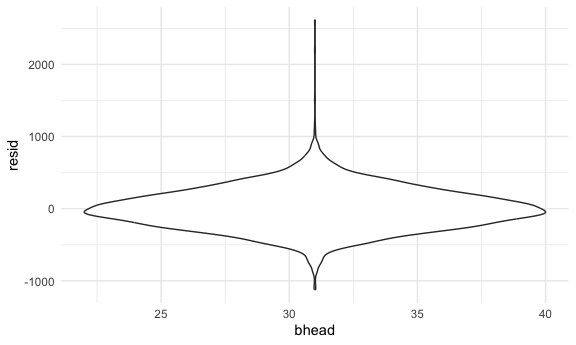
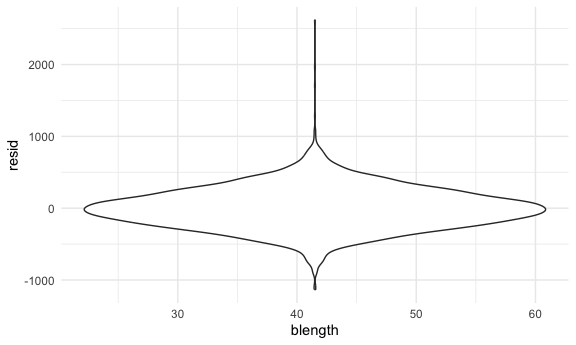
notes from office hours

diff --git a/p8105_hw6_sdc2157.md b/p8105_hw6_sdc2157.md
@@ -218,7 +218,7 @@ cp_results_tidy |>
 
 ``` r
 cp_results_tidy |> 
-  filter(!log_coefficients_mult == "NaN") |> 
+  filter(log_coefficients_mult != "NaN") |> 
   ggplot(aes(x = log_coefficients_mult)) +
   geom_density()
 ```
@@ -228,7 +228,7 @@ noted total number of NAs produced; filtered them out for the
 distribution
 
 log of product of coefficients distribution = centers around -5.5; What
-does this mean?
+does this mean? left skew
 
 Using the 5000 bootstrap estimates, identify the 2.5% and 97.5%
 quantiles to provide a 95% confidence interval for r̂ 2 and log(β̂ 0∗β̂ 1)
@@ -342,40 +342,11 @@ str(birthweight_clean)
 
 ``` r
 fit_1 = lm(bwt ~ gaweeks, data = birthweight_clean)
-fit_1 |> 
-  broom::tidy()
-```
-
-    ## # A tibble: 2 × 5
-    ##   term        estimate std.error statistic   p.value
-    ##   <chr>          <dbl>     <dbl>     <dbl>     <dbl>
-    ## 1 (Intercept)    476.      88.8       5.36 8.76e-  8
-    ## 2 gaweeks         66.9      2.25     29.8  9.69e-178
-
-``` r
-birthweight_clean |> 
-  ggplot(aes(x = gaweeks, y = bwt)) + 
-  geom_point()
-```
-
-<img src="p8105_hw6_sdc2157_files/figure-gfm/unnamed-chunk-10-1.png" width="90%" />
-
-``` r
-birthweight_clean |> 
-  modelr::add_residuals(fit_1) |> 
-  ggplot(aes(x = smoken, y = resid)) + geom_violin()
-```
-
-<img src="p8105_hw6_sdc2157_files/figure-gfm/unnamed-chunk-10-2.png" width="90%" />
-
-``` r
-fit_1 = lm(bwt ~ gaweeks, data = birthweight_clean)
 fit_2 = lm(bwt ~ gaweeks + bhead, data = birthweight_clean)
 fit_3 = lm(bwt ~ gaweeks + bhead + blength, data = birthweight_clean)
 
 fit_4 = lm(bwt ~ gaweeks + bhead + blength + babysex, data = birthweight_clean)
 fit_5 = lm(bwt ~ gaweeks + bhead + blength + malform, data = birthweight_clean)
-fit_6 = lm(bwt ~ gaweeks + bhead + blength + smoken, data = birthweight_clean)
 
 anova(fit_1, fit_2) |> 
   broom::tidy()
@@ -421,50 +392,17 @@ anova(fit_3, fit_5) |>
     ## 2 bwt ~ gaweeks + bhead + ble…        4337 3.55e8     1 21962.     0.268   0.605
 
 ``` r
-anova(fit_3, fit_6) |> 
-  broom::tidy()
-```
-
-    ## # A tibble: 2 × 7
-    ##   term                       df.residual    rss    df   sumsq statistic  p.value
-    ##   <chr>                            <dbl>  <dbl> <dbl>   <dbl>     <dbl>    <dbl>
-    ## 1 bwt ~ gaweeks + bhead + b…        4338 3.55e8    NA     NA       NA   NA      
-    ## 2 bwt ~ gaweeks + bhead + b…        4337 3.54e8     1 818743.      10.0  0.00156
-
-``` r
 birthweight_clean |> 
   modelr::add_residuals(fit_4) |> 
-  ggplot(aes(x = gaweeks, y = resid)) + geom_violin()
+  modelr::add_predictions(fit_4) |> 
+  ggplot(aes(x = pred, y = resid)) + 
+  geom_point()
 ```
 
-<img src="p8105_hw6_sdc2157_files/figure-gfm/unnamed-chunk-10-3.png" width="90%" />
+<img src="p8105_hw6_sdc2157_files/figure-gfm/unnamed-chunk-10-1.png" width="90%" />
 
 ``` r
-birthweight_clean |> 
-  modelr::add_residuals(fit_4) |> 
-  ggplot(aes(x = bhead, y = resid)) + geom_violin()
-```
-
-<img src="p8105_hw6_sdc2157_files/figure-gfm/unnamed-chunk-10-4.png" width="90%" />
-
-``` r
-birthweight_clean |> 
-  modelr::add_residuals(fit_4) |> 
-  ggplot(aes(x = blength, y = resid)) + geom_violin()
-```
-
-<img src="p8105_hw6_sdc2157_files/figure-gfm/unnamed-chunk-10-5.png" width="90%" />
-
-``` r
-birthweight_clean |> 
-  modelr::add_residuals(fit_4) |> 
-  ggplot(aes(x = babysex, y = resid)) + geom_violin()
-```
-
-<img src="p8105_hw6_sdc2157_files/figure-gfm/unnamed-chunk-10-6.png" width="90%" />
-
-``` r
-fit_4 = lm(bwt ~ gaweeks + bhead + blength + babysex, data = birthweight_clean)
+#fit_4 = lm(bwt ~ gaweeks + bhead + blength + babysex, data = birthweight_clean)
 fit_alt1 = lm(bwt ~ gaweeks + blength, data = birthweight_clean)
 fit_alt2 = lm(bwt ~ blength * bhead * babysex, data = birthweight_clean)
 
@@ -490,7 +428,7 @@ birthweight_clean |>
   ggplot(aes(x = gaweeks, y = resid)) + geom_violin()
 ```
 
-<img src="p8105_hw6_sdc2157_files/figure-gfm/unnamed-chunk-10-7.png" width="90%" />
+<img src="p8105_hw6_sdc2157_files/figure-gfm/unnamed-chunk-10-2.png" width="90%" />
 
 ``` r
 birthweight_clean |> 
@@ -498,7 +436,31 @@ birthweight_clean |>
   ggplot(aes(x = blength, y = resid)) + geom_violin()
 ```
 
-<img src="p8105_hw6_sdc2157_files/figure-gfm/unnamed-chunk-10-8.png" width="90%" />
+<img src="p8105_hw6_sdc2157_files/figure-gfm/unnamed-chunk-10-3.png" width="90%" />
+
+``` r
+birthweight_clean |> 
+  modelr::add_residuals(fit_alt2) |> 
+  ggplot(aes(x = blength, y = resid)) + geom_violin()
+```
+
+<img src="p8105_hw6_sdc2157_files/figure-gfm/unnamed-chunk-10-4.png" width="90%" />
+
+``` r
+birthweight_clean |> 
+  modelr::add_residuals(fit_alt2) |> 
+  ggplot(aes(x = bhead, y = resid)) + geom_violin()
+```
+
+<img src="p8105_hw6_sdc2157_files/figure-gfm/unnamed-chunk-10-5.png" width="90%" />
+
+``` r
+birthweight_clean |> 
+  modelr::add_residuals(fit_alt2) |> 
+  ggplot(aes(x = babysex, y = resid)) + geom_violin()
+```
+
+<img src="p8105_hw6_sdc2157_files/figure-gfm/unnamed-chunk-10-6.png" width="90%" />
 
 ``` r
 cv_df <-
@@ -512,7 +474,7 @@ cv_df <-
   mutate(
     mod_alt1  = map(train, \(df) lm(bwt ~ gaweeks + bhead + blength + babysex, data = df)),
     mod_alt2  = map(train, \(df) lm(bwt ~ gaweeks + blength, data = df)),
-    mod_alt3  = map(train, \(df) lm(bwt ~ blength*bhead*babysex, data = as_tibble(df)))) |> 
+    mod_alt3  = map(train, \(df) lm(bwt ~ blength * bhead * babysex, data = df))) |> 
   mutate(
     rmse_alt1 = map2_dbl(mod_alt1, test, \(mod, df) rmse(model = mod, data = df)),
     rmse_alt2 = map2_dbl(mod_alt2, test, \(mod, df) rmse(model = mod, data = df)),
@@ -531,4 +493,10 @@ cv_df |>
   geom_violin()
 ```
 
-<img src="p8105_hw6_sdc2157_files/figure-gfm/unnamed-chunk-10-9.png" width="90%" />
+<img src="p8105_hw6_sdc2157_files/figure-gfm/unnamed-chunk-10-7.png" width="90%" />
+choose alt1
+
+models they gave us just do lm. compare rmse
+
+predictions on x axis and resid on y axis; good b/c points center around
+0 indicating a good fit; and there’s no clear pattern so linear is ok
